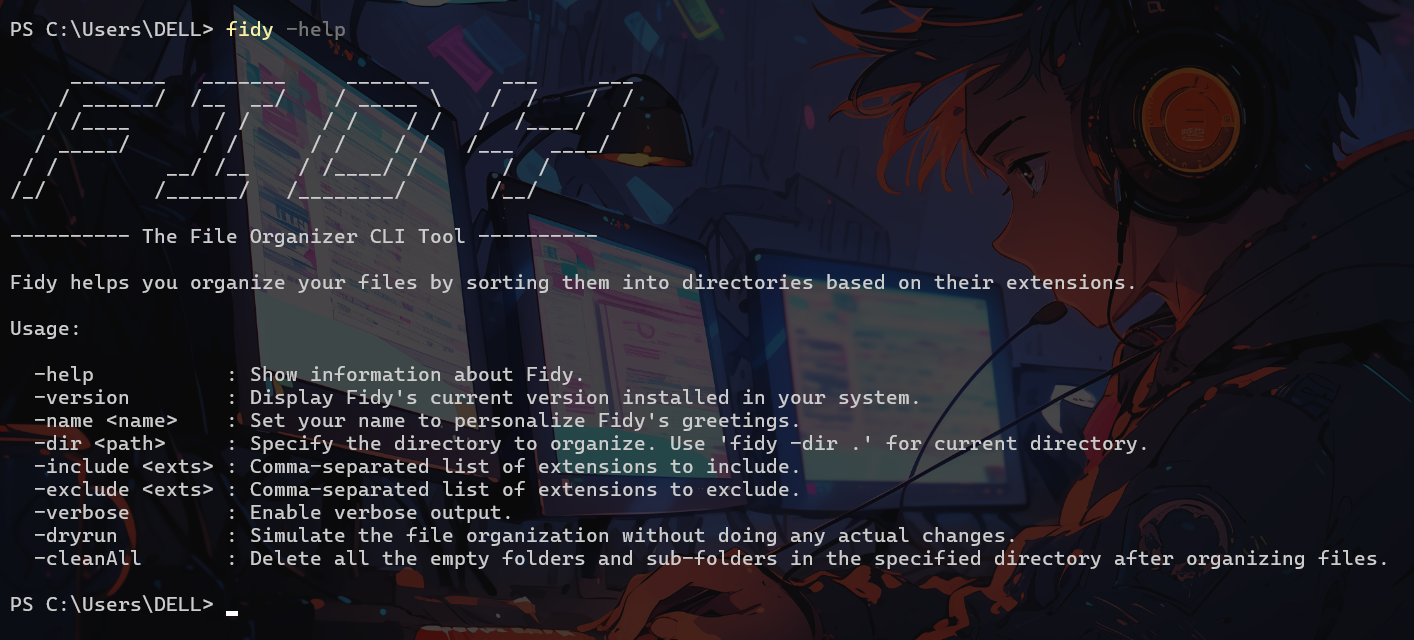
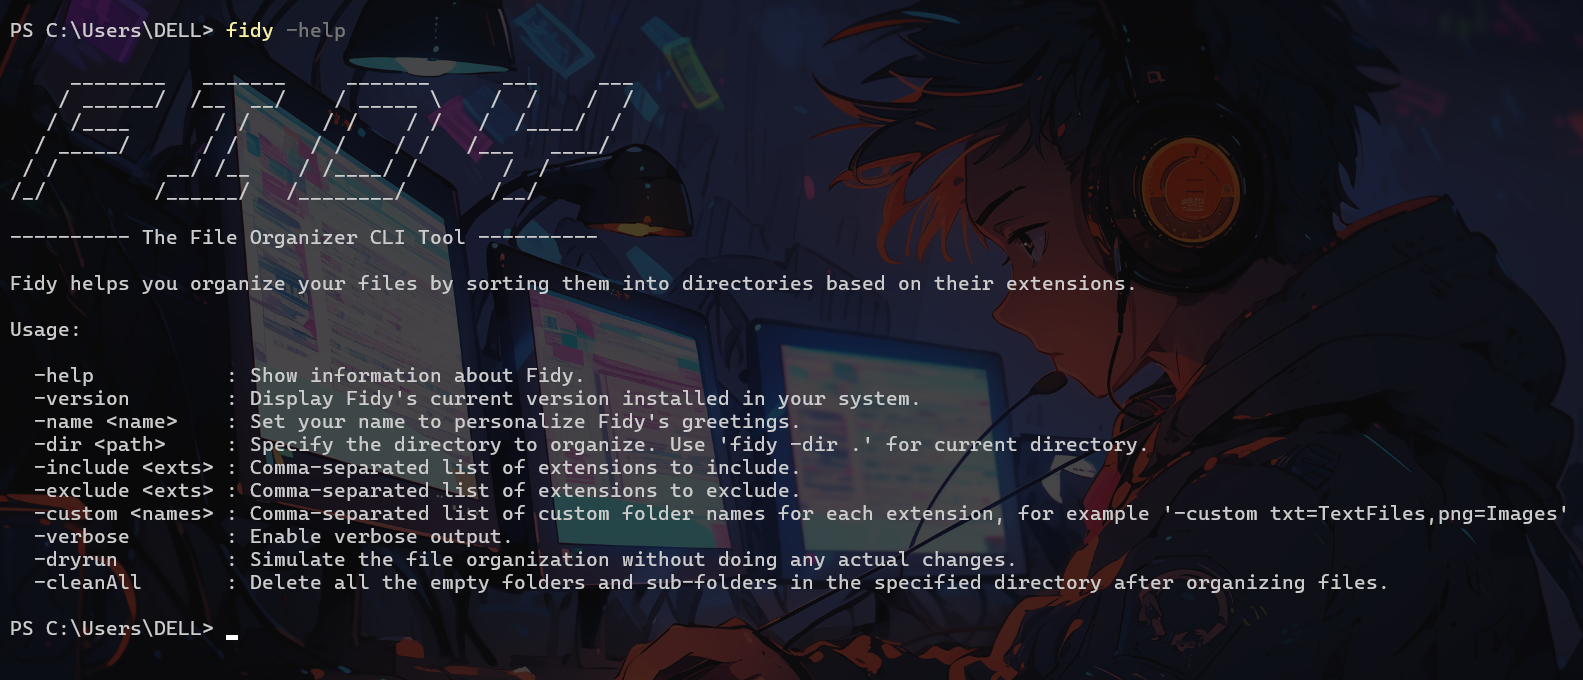
Updated readme

diff --git a/README.md b/README.md
@@ -4,6 +4,8 @@
 
 Fidy is a command-line tool for organizing files in a directory based on their extensions. It helps you keep your workspace tidy by categorizing files into folders named after their extensions.
 
+![help](./assets/help.png)
+
 ## Features
 
 - **Organize Files by Extension**: Automatically move files into directories based on their file extensions.
@@ -22,6 +24,7 @@ Open your terminal and run Fidy!
 ```
 fidy
 ```
+![run fidy](./assets/run%20fidy.png)
 
 ### 2. Install using 'go install' command.
 
@@ -44,7 +47,6 @@ Display info about Fidy
 ```
 fidy -help
 ```
-![help](./assets/help.png)
 
 Fidy can remember your name and send personalized greetings! Set your name using the command:
 ```
@@ -76,6 +78,12 @@ Perform a Dry Run, without doing any actual changes to your directory.
 fidy -dir PATH_TO_YOUR_DIR -dryrun -include txt,png -exclude pdf
 ```
 
+Give custom names to folders created by Fidy for each extension.
+```
+fidy -dir PATH_TO_YOUR_DIR -custom png=Images,pdf=Documents,mp4=Videos
+```
+![custom flag](./assets/custom%20flag.png)
+
 Clean all the empty folders and sub-folders within your target directory.
 ```
 fidy -dir PATH_TO_YOUR_DIR -cleanAll -verbose
@@ -84,6 +92,5 @@ fidy -dir PATH_TO_YOUR_DIR -cleanAll -verbose
 ## Upcoming features
 
 - Log file
-- Custom directory naming
 - Backup before running Fidy
 - Recursive organization for sub-directories
